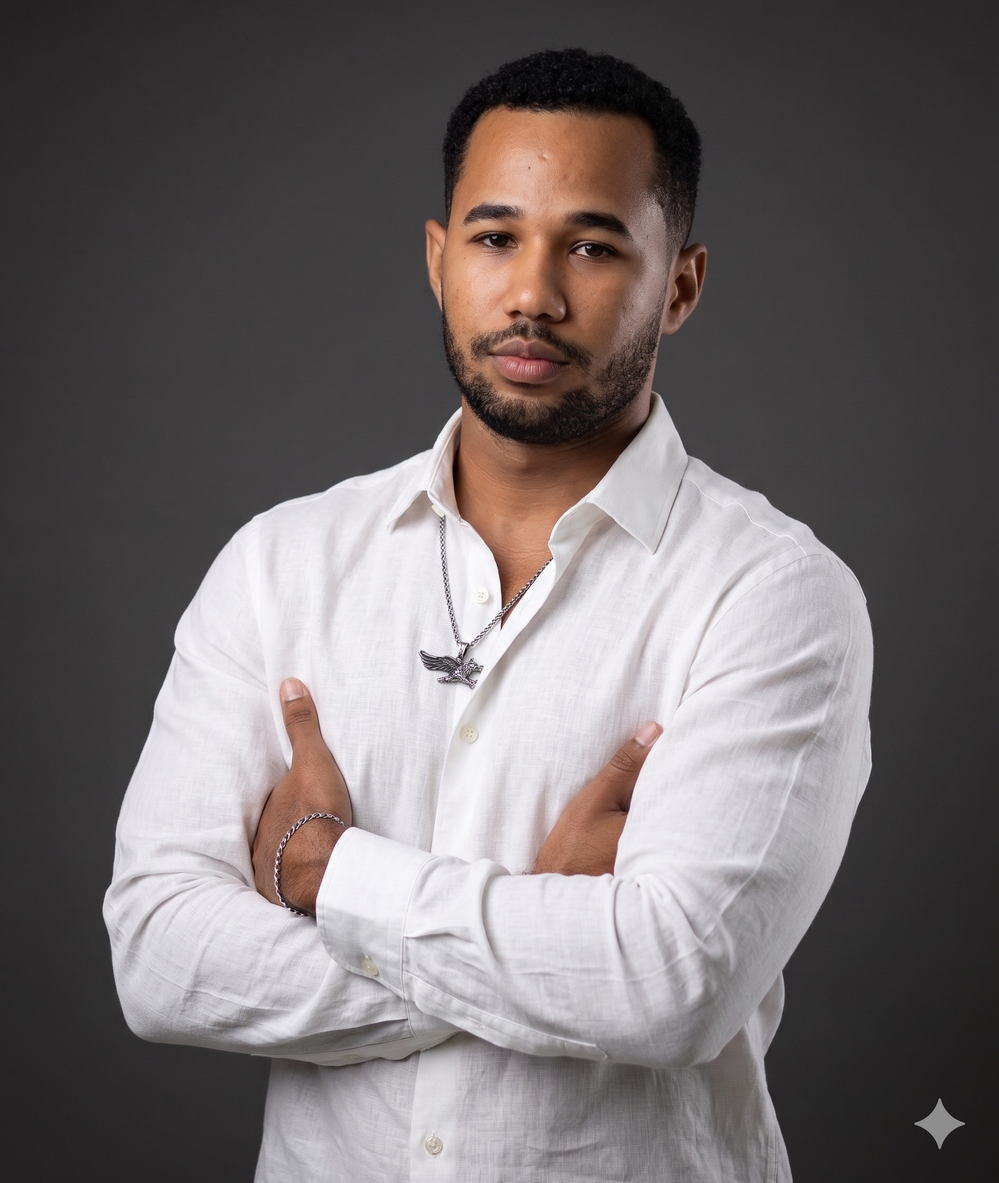
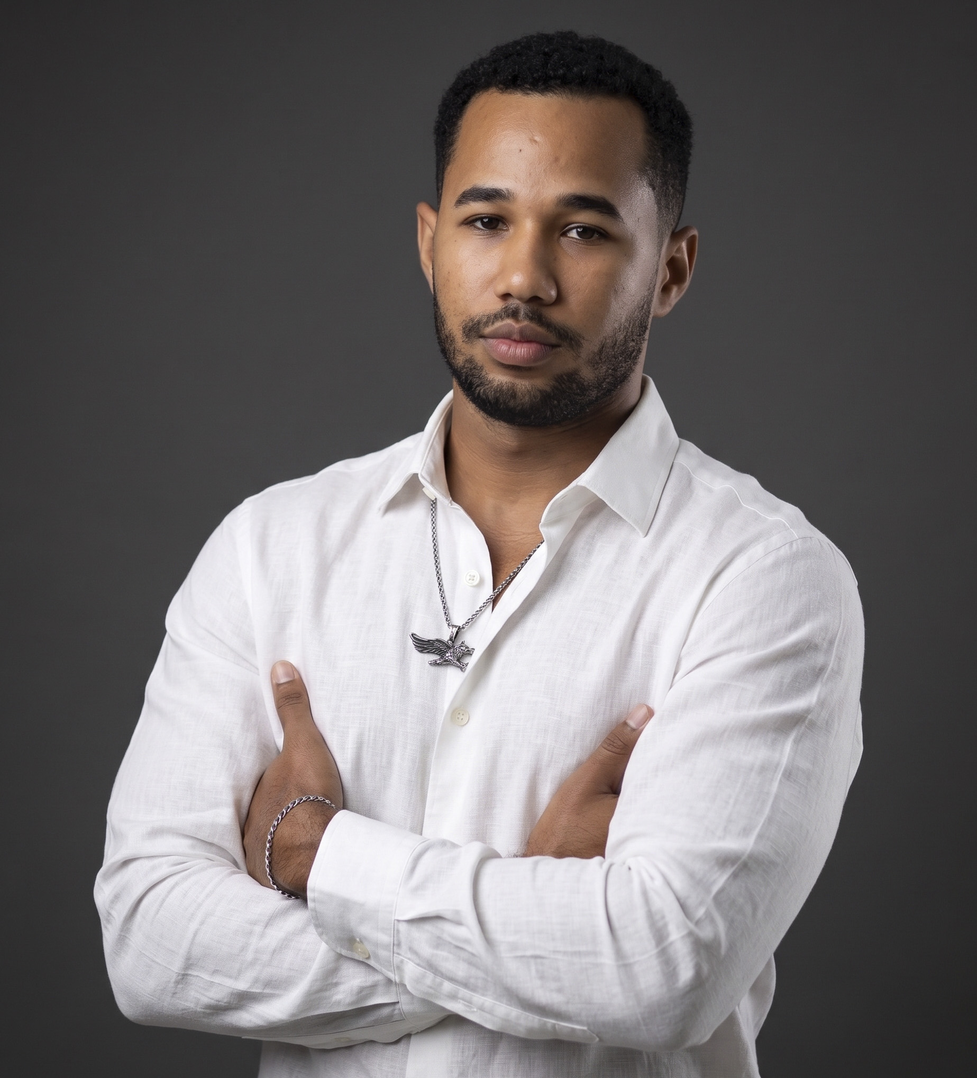
Atualização imagem de perfil e ajuste da descrição profissional na seção inicial do portfólio.

diff --git a/estilo.css b/estilo.css
@@ -167,14 +167,16 @@ section {
 }
 
 /* =========================================
-   HOME & FOTO CIRCULAR ANTI-DISTORÇÃO
+   HOME & FOTO PROFISSIONAL RETANGULAR
    ========================================= */
 .home {
-  display: flex;
-  justify-content: center;
-  align-items: center;
-  gap: 8rem;
-  background: var(--bg-color);
+    display: flex;
+    justify-content: center;
+    align-items: center;
+
+    gap: clamp(3rem, 5vw, 7rem);
+
+    background: var(--bg-color);
 }
 
 .home-content h1 {
@@ -201,33 +203,44 @@ span {
   color: var(--muted-color);
 }
 
-/* Envoltório da Foto e Regra de Bloqueio Oval */
 .home-img {
-  display: flex;
-  justify-content: center;
-  align-items: center;
-  flex-shrink: 0;
+    display: flex;
+    justify-content: center;
+    align-items: center;
+    flex-shrink: 0;
 }
 
 .home-img img {
-  position: relative;
-  width: 32vw;
-  max-width: 420px;
-  min-width: 260px;
-  /* aspect-ratio e object-fit garantem corte 1:1 rigorosamente circular */
-  aspect-ratio: 1 / 1;
-  object-fit: cover;
-  object-position: center top;
-  border-radius: 50%;
-  border: 4px solid var(--main-color);
-  box-shadow: 0 0 30px rgba(0, 191, 255, 0.6);
-  cursor: pointer;
-  transition: transform 0.3s ease, box-shadow 0.3s ease;
+    display: block;
+
+    width: clamp(280px, 28vw, 360px);
+    max-width: 100%;
+    min-width: 0;
+
+    height: auto;
+    aspect-ratio: 1847 / 2037;
+
+    object-fit: cover;
+    object-position: center;
+
+    border-radius: 2.4rem;
+    border: 2px solid var(--main-color);
+
+    box-shadow:
+        0 18px 45px rgba(0, 0, 0, 0.35),
+        0 0 20px var(--main-glow);
+
+    transition:
+        transform 0.3s ease,
+        box-shadow 0.3s ease;
 }
 
 .home-img img:hover {
-  transform: scale(1.02);
-  box-shadow: 0 0 45px var(--main-color);
+    transform: translateY(-5px);
+
+    box-shadow:
+        0 22px 50px rgba(0, 0, 0, 0.45),
+        0 0 28px var(--main-glow);
 }
 
 /* Ícones Sociais */
@@ -729,6 +742,7 @@ input[type="tel"]::-webkit-outer-spin-button {
 
 input[type="number"],
 input[type="tel"] {
+  appearance: textfield;
   -moz-appearance: textfield;
 }
 
@@ -830,9 +844,10 @@ input[type="tel"] {
     margin: 0 auto;
   }
   .home-img img {
-    width: 60vw;
-    max-width: 320px;
-  }
+    width: clamp(240px, 62vw, 300px);
+    max-width: 100%;
+    min-width: 0;
+}
   .social-icon {
     display: flex;
     justify-content: center;
@@ -953,6 +968,43 @@ input[type="tel"] {
         line-height: 1.65;
 
         overflow-wrap: break-word;
+    }
+
+}
+
+/* =========================================
+   AJUSTE DA ANIMAÇÃO EM TELAS MENORES
+   ========================================= */
+
+@media (max-width: 400px) {
+
+    .typing-text {
+        display: flex;
+        flex-wrap: wrap;
+        justify-content: center;
+        align-items: baseline;
+        gap: 0;
+
+        width: 100%;
+        min-width: 0;
+        text-align: center;
+    }
+
+    /* Frase animada passa para outra linha */
+    .typing-text > span {
+        display: block;
+
+        flex: 0 0 100%;
+        width: 100%;
+        max-width: 100%;
+        min-width: 0;
+
+        margin-top: 0.5rem;
+
+        font-size: clamp(2.6rem, 5.5vw, 2.1rem);
+
+        overflow: hidden;
+        white-space: nowrap;
     }
 
 }

diff --git a/index.html b/index.html
@@ -27,14 +27,15 @@
 
     <section class="home" id="home">
         <div class="home-img">
-            <img src="imagens/Perfil_t.jpg" alt="Perfil Profissional">
+            <img src="imagens/Profissional_LB.jpg" alt="Perfil Profissional">
         </div>
         <div class="home-content">
             <h1>Olá, sou o <span>Thiago</span></h1>
             <h3 class="typing-text">Eu sou, <span></span></h3>
-            <p>Me chamo Thiago Moreira, tenho 26 anos e sou formado em Análise e Desenvolvimento de Sistemas. 
-               Sou focado no desenvolvimento de software, automação de processos e qualidade técnica. 
-               Transformando problemas complexos em soluções digitais eficientes.</p>
+            <p>Profissional formado em Análise e Desenvolvimento de Sistemas, 
+               com experiência na área de processos e licitações.
+               Conecto tecnologia e automação para simplificar demandas complexas,
+               transformando em soluções digitais eficientes.</p>
 
             <div class="social-icon">
                 <a href="https://github.com/Sinister71" target="_blank" rel="noopener noreferrer" title="GitHub">
